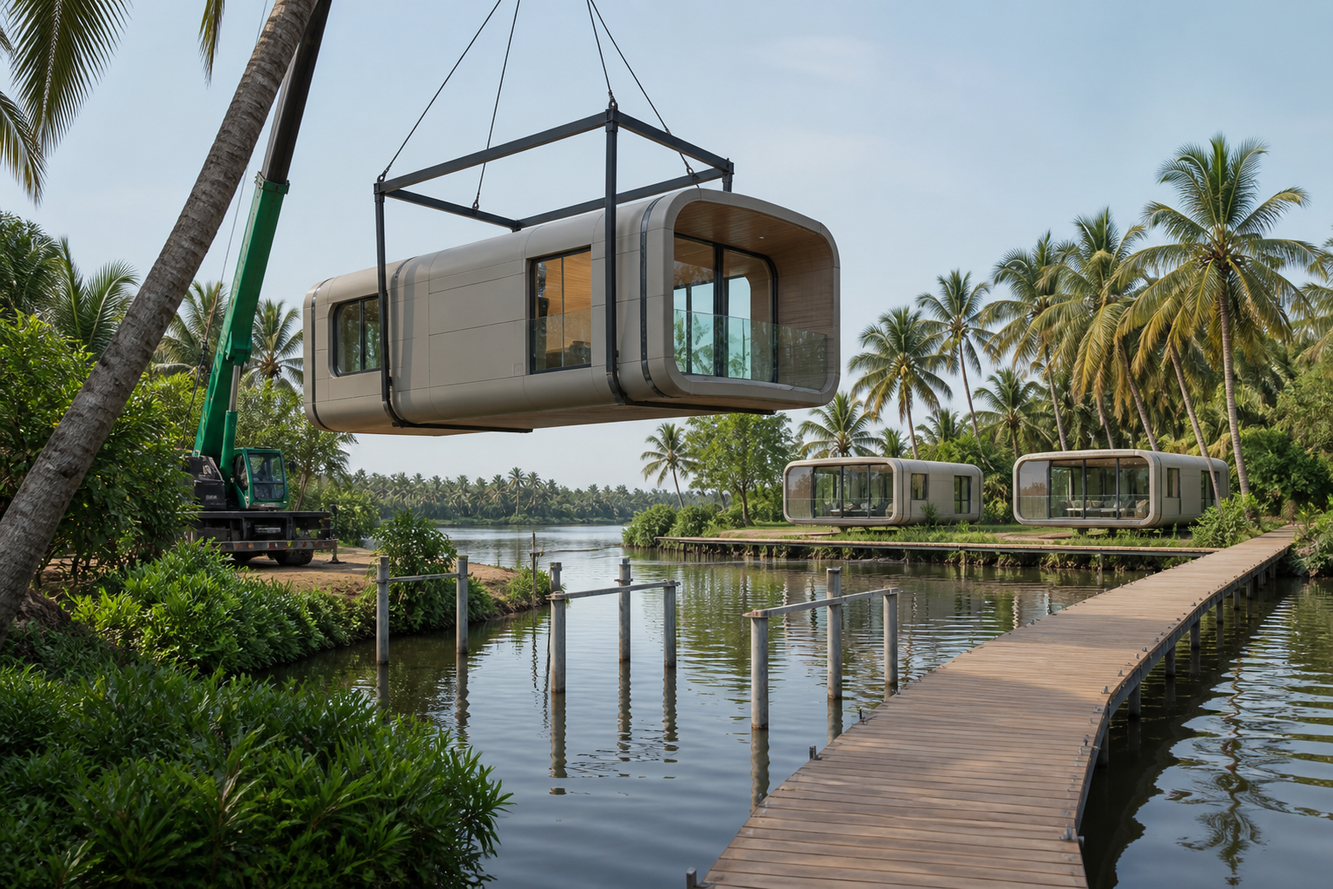
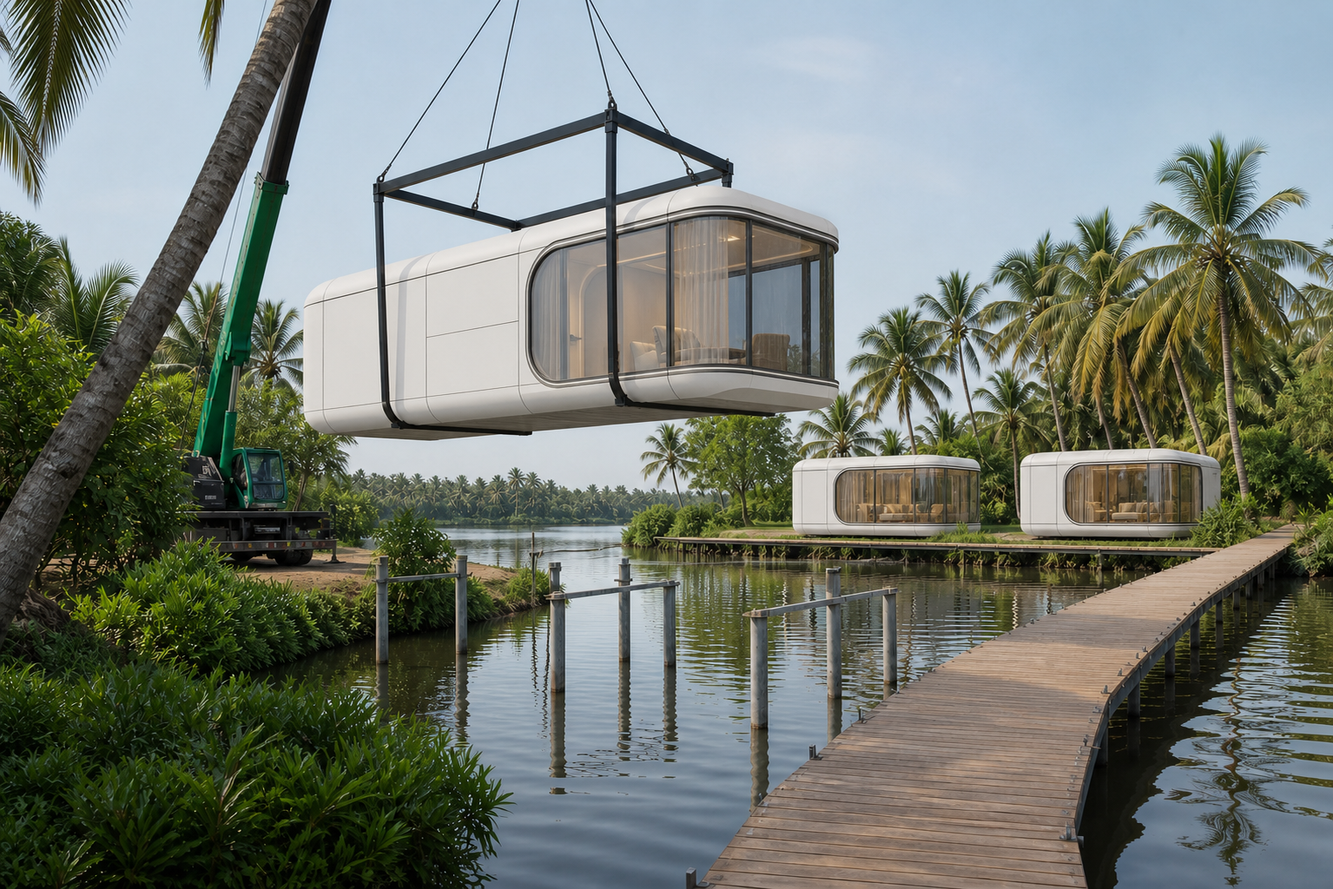
added some work with more chinese capsules

diff --git a/src/constants.ts b/src/constants.ts
@@ -120,11 +120,11 @@ export const PROJECTS: Project[] = [
   },
   {
     id: 'modular-capsule-backwater-retreat', title: 'Modular Capsule Backwater Retreat', category: 'Hospitality', location: 'Kerala Backwaters, India', year: '2026', image: '/images/modular-capsule-backwater-retreat-hero.png',
-    description: 'A water-facing hospitality retreat composed of refined capsule suites, pairing panoramic guest rooms with low-impact foundations and a phased modular delivery strategy.',
+    description: 'A water-facing hospitality retreat composed of compact Volferda E3 suites, pairing panoramic guest rooms with low-impact foundations and a phased modular delivery strategy.',
     challenge: 'Create a memorable backwater stay that feels close to the landscape while avoiding heavy, disruptive construction at the water’s edge.',
-    solution: 'Factory-finished volumetric capsules arrive with interiors, services, and glazing complete, then are positioned on slender piers and linked by a raised timber boardwalk. The system can grow suite by suite as demand increases.',
-    materiality: 'Warm-grey insulated capsule shells, rounded low-iron glazing, teak-lined reveals, and quiet dark-metal details create a durable, contemporary response to the tropical setting.',
-    technicalSpecs: [{ label: 'System', value: 'Volumetric Capsule Modules' }, { label: 'Foundation', value: 'Low-impact Pier Supports' }, { label: 'Delivery', value: 'Factory-finished + Phased' }],
+    solution: 'Factory-finished E3 capsules arrive with interiors, services, and panoramic glazing complete, then are positioned on slender piers and linked by a raised timber boardwalk. The system can grow suite by suite as demand increases.',
+    materiality: 'Smooth white E3 shells, dark rounded panoramic glazing, pale-wood interiors, teak-lined reveals, and quiet dark-metal details create a durable response to the tropical setting.',
+    technicalSpecs: [{ label: 'Capsule Reference', value: 'Volferda E3' }, { label: 'Foundation', value: 'Low-impact Pier Supports' }, { label: 'Delivery', value: 'Factory-finished + Phased' }],
     details: [{ label: 'Type', value: 'Capsule Hospitality' }, { label: 'Region', value: 'Kerala Backwaters, India' }, { label: 'Status', value: 'Concept Study' }],
     gallery: ['/images/modular-capsule-backwater-retreat-hero.png', '/images/modular-capsule-backwater-retreat-interior.png', '/images/modular-capsule-backwater-retreat-installation.png']
   },
@@ -140,21 +140,21 @@ export const PROJECTS: Project[] = [
   },
   {
     id: 'modular-capsule-desert-retreat', title: 'Modular Capsule Desert Retreat', category: 'Hospitality', location: 'Jaisalmer, Rajasthan, India', year: '2026', image: '/images/modular-capsule-desert-retreat-hero.png',
-    description: 'A compact capsule retreat that brings shaded, panoramic guest suites to the Thar landscape through a transportable and phased modular system.',
+    description: 'A compact Volferda E3 retreat that brings panoramic guest suites to the Thar landscape through a transportable and phased modular system.',
     challenge: 'Create a premium desert experience that can withstand heat, sand, and open exposure while keeping permanent ground works to a minimum.',
-    solution: 'Pre-finished capsule modules are aligned on raised pier pads and connected by a low-impact boardwalk, with shaded porches and service zones integrated before delivery.',
-    materiality: 'Sand-toned insulated shells, bronzed frames, timber privacy screens, and durable raised decks echo the desert palette while protecting guests from the elements.',
-    technicalSpecs: [{ label: 'System', value: 'Transportable Capsule Modules' }, { label: 'Foundation', value: 'Raised Pier Pads' }, { label: 'Climate', value: 'Heat + Sand-ready Envelope' }],
+    solution: 'Pre-finished E3 capsule modules are aligned on raised pier pads and connected by a low-impact boardwalk, with service zones integrated before delivery.',
+    materiality: 'Smooth white E3 shells, dark rounded panoramic glazing, timber privacy screens, and durable raised decks bring a crisp counterpoint to the desert palette.',
+    technicalSpecs: [{ label: 'Capsule Reference', value: 'Volferda E3' }, { label: 'Foundation', value: 'Raised Pier Pads' }, { label: 'Climate', value: 'Heat + Sand-ready Envelope' }],
     details: [{ label: 'Type', value: 'Desert Capsule Hospitality' }, { label: 'Region', value: 'Jaisalmer, Rajasthan, India' }, { label: 'Status', value: 'Concept Study' }],
     gallery: ['/images/modular-capsule-desert-retreat-hero.png', '/images/modular-capsule-desert-retreat-interior.png', '/images/modular-capsule-desert-retreat-installation.png']
   },
   {
     id: 'modular-capsule-alpine-retreat', title: 'Modular Capsule Alpine Retreat', category: 'Hospitality', location: 'Manali, Himachal Pradesh, India', year: '2026', image: '/images/modular-capsule-alpine-retreat-hero.png',
-    description: 'An insulated capsule retreat that places panoramic guest rooms across a Himalayan slope with minimal permanent construction.',
+    description: 'A Luban A50 Ultra capsule retreat that places panoramic guest rooms across a Himalayan slope with minimal permanent construction.',
     challenge: 'Deliver warm, comfortable accommodation on steep mountain terrain while limiting road work, earth movement, and impact on the forested site.',
-    solution: 'Transport-ready capsules arrive complete with interior finishes and high-performance glazing, then are set onto stepped pier foundations and connected by a lightweight cedar boardwalk.',
-    materiality: 'Charcoal insulated shells, cedar-lined reveals, dark aluminium glazing, wool-rich interiors, and weathered timber paths bring warmth to a high-altitude setting.',
-    technicalSpecs: [{ label: 'System', value: 'Insulated Capsule Modules' }, { label: 'Foundation', value: 'Stepped Pier Supports' }, { label: 'Delivery', value: 'Transport-ready Volumes' }],
+    solution: 'Transport-ready A50 Ultra modules arrive complete with interior finishes and high-performance glazing, then are set onto stepped pier foundations and connected by a lightweight cedar boardwalk.',
+    materiality: 'Pale grey and white A50 Ultra shells, dark rounded glazing, cedar-lined reveals, wool-rich interiors, and weathered timber paths bring warmth to a high-altitude setting.',
+    technicalSpecs: [{ label: 'Capsule Reference', value: 'Luban A50 Ultra' }, { label: 'Foundation', value: 'Stepped Pier Supports' }, { label: 'Delivery', value: 'Transport-ready Volumes' }],
     details: [{ label: 'Type', value: 'Alpine Capsule Hospitality' }, { label: 'Region', value: 'Manali, Himachal Pradesh, India' }, { label: 'Status', value: 'Concept Study' }],
     gallery: ['/images/modular-capsule-alpine-retreat-hero.png', '/images/modular-capsule-alpine-retreat-interior.png', '/images/modular-capsule-alpine-retreat-installation.png']
   },
@@ -180,11 +180,11 @@ export const PROJECTS: Project[] = [
   },
   {
     id: 'modular-capsule-lake-retreat', title: 'Modular Capsule Lake Retreat', category: 'Hospitality', location: 'Nainital, Uttarakhand, India', year: '2026', image: '/images/modular-capsule-lake-retreat-hero.png',
-    description: 'A lake-facing capsule retreat that steps through a wooded Nainital slope, combining panoramic rooms with minimal permanent construction.',
+    description: 'A lake-facing Volferda E3 retreat that steps through a wooded Nainital slope, combining panoramic rooms with minimal permanent construction.',
     challenge: 'Create comfortable, view-led accommodation on steep lakeside terrain while avoiding extensive earthworks and keeping access routes light.',
-    solution: 'Transport-ready capsule suites are carefully lifted to stepped pier supports and linked by a lightweight boardwalk, allowing a phased build that protects the slope and frames the lake.',
-    materiality: 'Warm-grey weatherproof shells, rounded panoramic glazing, oak interiors, charcoal metal frames, and timber decks keep the capsule collection cohesive in a mountain-lake setting.',
-    technicalSpecs: [{ label: 'System', value: 'Transport-ready Capsule Modules' }, { label: 'Foundation', value: 'Stepped Pier Supports' }, { label: 'Delivery', value: 'Phased Hillside Installation' }],
+    solution: 'Transport-ready E3 suites are carefully lifted to stepped pier supports and linked by a lightweight boardwalk, allowing a phased build that protects the slope and frames the lake.',
+    materiality: 'Smooth white E3 shells, dark rounded panoramic glazing, oak interiors, charcoal metal frames, and timber decks keep the collection cohesive in a mountain-lake setting.',
+    technicalSpecs: [{ label: 'Capsule Reference', value: 'Volferda E3' }, { label: 'Foundation', value: 'Stepped Pier Supports' }, { label: 'Delivery', value: 'Phased Hillside Installation' }],
     details: [{ label: 'Type', value: 'Lake Capsule Hospitality' }, { label: 'Region', value: 'Nainital, Uttarakhand, India' }, { label: 'Status', value: 'Concept Study' }],
     gallery: ['/images/modular-capsule-lake-retreat-hero.png', '/images/modular-capsule-lake-retreat-interior.png', '/images/modular-capsule-lake-retreat-installation.png']
   },
@@ -240,11 +240,11 @@ export const PROJECTS: Project[] = [
   },
   {
     id: 'modular-capsule-visitor-gateway', title: 'Modular Capsule Visitor Gateway', category: 'Community', location: 'India', year: '2026', image: '/images/modular-capsule-visitor-gateway-hero.png',
-    description: 'A low-impact arrival hub for natural destinations, bringing orientation, public amenities, and sheltered gathering space together in a repeatable capsule system.',
+    description: 'A low-impact arrival hub for natural destinations, bringing orientation, public amenities, and sheltered gathering space together in a repeatable Luban A50 Ultra system.',
     challenge: 'Create an inviting visitor facility in a sensitive landscape while reducing permanent construction, protecting trees, and allowing the destination to grow in phases.',
-    solution: 'Three factory-built capsules link by a raised timber boardwalk, separating the orientation lounge, accessible amenity, and gathering room while keeping the landscape continuous below.',
-    materiality: 'Warm-grey weatherproof shells, wide rounded glazing, oak display finishes, dark aluminium frames, timber walkways, and stone-edged planting sit quietly within the setting.',
-    technicalSpecs: [{ label: 'Configuration', value: '3 Capsule Visitor Modules' }, { label: 'Programme', value: 'Orientation + Public Amenity' }, { label: 'Foundation', value: 'Raised Adjustable Supports' }],
+    solution: 'Three factory-built A50 Ultra modules link by a raised timber boardwalk, separating the orientation lounge, accessible amenity, and gathering room while keeping the landscape continuous below.',
+    materiality: 'Pale grey and white A50 Ultra shells, wide dark rounded glazing, oak display finishes, timber walkways, and stone-edged planting sit quietly within the setting.',
+    technicalSpecs: [{ label: 'Capsule Reference', value: 'Luban A50 Ultra' }, { label: 'Programme', value: 'Orientation + Public Amenity' }, { label: 'Foundation', value: 'Raised Adjustable Supports' }],
     details: [{ label: 'Type', value: 'Visitor Information Gateway' }, { label: 'Region', value: 'India' }, { label: 'Status', value: 'Concept Study' }],
     gallery: ['/images/modular-capsule-visitor-gateway-hero.png', '/images/modular-capsule-visitor-gateway-interior.png', '/images/modular-capsule-visitor-gateway-installation.png']
   },
@@ -280,11 +280,11 @@ export const PROJECTS: Project[] = [
   },
   {
     id: 'modular-capsule-desert-adventure-lodge', title: 'Modular Capsule Desert Adventure Lodge', category: 'Hospitality', location: 'Rajasthan, India', year: '2026', image: '/images/modular-capsule-desert-adventure-lodge-hero.png',
-    description: 'A climate-ready adventure lodge that uses insulated capsule guest suites and a shared shaded courtyard to create a durable, low-impact desert stay.',
+    description: 'A climate-ready adventure lodge that uses Volferda E3 guest suites and a shared shaded courtyard to create a durable, low-impact desert stay.',
     challenge: 'Give guests a comfortable, memorable base in a hot and fragile landscape without relying on heavy construction, standard tents, or a fixed resort footprint.',
-    solution: 'Four factory-built capsules establish private suites around a protected communal court, with deep shade, light-touch supports, and timber walkways that make phased installation and relocation practical.',
-    materiality: 'Sand-grey mineral-coated shells, thermally efficient glazing, oak interiors, woven shade layers, dark aluminium frames, local stone, and native desert planting create a grounded hospitality palette.',
-    technicalSpecs: [{ label: 'Configuration', value: '4 Capsule Lodge Modules' }, { label: 'Climate', value: 'Desert-ready Envelope' }, { label: 'Site Strategy', value: 'Light-touch Foundations' }],
+    solution: 'Four factory-built E3 capsules establish private suites around a protected communal court, with deep shade, light-touch supports, and timber walkways that make phased installation and relocation practical.',
+    materiality: 'Smooth white E3 shells, dark rounded panoramic glazing, oak interiors, woven shade layers, local stone, and native desert planting create a grounded hospitality palette.',
+    technicalSpecs: [{ label: 'Capsule Reference', value: 'Volferda E3' }, { label: 'Climate', value: 'Desert-ready Envelope' }, { label: 'Site Strategy', value: 'Light-touch Foundations' }],
     details: [{ label: 'Type', value: 'Capsule Desert Adventure Lodge' }, { label: 'Region', value: 'Rajasthan, India' }, { label: 'Status', value: 'Concept Study' }],
     gallery: ['/images/modular-capsule-desert-adventure-lodge-hero.png', '/images/modular-capsule-desert-adventure-lodge-interior.png', '/images/modular-capsule-desert-adventure-lodge-installation.png']
   },
@@ -317,11 +317,8 @@ export const PROJECTS: Project[] = [
     details: [{ label: 'Type', value: 'Modular Workplace' }, { label: 'Region', value: 'Bengaluru, India' }, { label: 'Status', value: 'Concept Study' }],
     gallery: ['/images/modular-office-india-exterior.jpg', '/images/modular-office-india-interior.jpg', '/images/modular-office-india-installation.jpg']
   },
-  { id: 'modular-farmhouse-retreat', title: 'Modular Farmhouse Retreat', category: 'Residential', location: 'India', year: '2026', image: '/images/modular-farmhouse-hero.png', description: 'A modern modular farmhouse that connects a warm, practical interior to broad views of the surrounding landscape.', details: [{ label: 'Type', value: 'Farmhouse Residence' }, { label: 'Status', value: 'Concept Study' }], gallery: ['/images/modular-farmhouse-hero.png', '/images/modular-farmhouse-interior.png', '/images/modular-farmhouse-veranda.png'] },
   { id: 'modular-office-campus', title: 'Modular Office Campus', category: 'Workplace', location: 'India', year: '2026', image: '/images/modular-office-campus-hero.png', description: 'An expandable modular office campus with connected workspaces, meeting rooms, and shaded arrival courts.', details: [{ label: 'Type', value: 'Office Campus' }, { label: 'Status', value: 'Concept Study' }], gallery: ['/images/modular-office-campus-hero.png', '/images/modular-office-campus-workspace.png', '/images/modular-office-campus-entry.png'] },
-  { id: 'modular-care-clinic', title: 'Modular Care Clinic', category: 'Community', location: 'India', year: '2026', image: '/images/modular-care-clinic-hero.png', description: 'A calm, rapidly deployable primary-care clinic with reception, treatment rooms, and a welcoming landscaped entry.', details: [{ label: 'Type', value: 'Healthcare Module' }, { label: 'Status', value: 'Concept Study' }], gallery: ['/images/modular-care-clinic-hero.png', '/images/modular-care-clinic-reception.png', '/images/modular-care-clinic-treatment.png'] },
   { id: 'modular-coworking-hub', title: 'Modular Co-working Hub', category: 'Workplace', location: 'India', year: '2026', image: '/images/modular-coworking-hub-hero.png', description: 'A flexible workplace hub with open desks, focused meeting rooms, and shaded breakout space.', details: [{ label: 'Type', value: 'Co-working Workplace' }, { label: 'Status', value: 'Concept Study' }], gallery: ['/images/modular-coworking-hub-hero.png', '/images/modular-coworking-hub-workspace.png', '/images/modular-coworking-hub-meeting.png'] },
-  { id: 'compact-roadside-cafe', title: 'Compact Roadside Café', category: 'Commercial', location: 'India', year: '2026', image: '/images/compact-roadside-cafe-hero.png', description: 'A single-module café with fast service, a shaded terrace, and a crisp modern identity.', details: [{ label: 'Type', value: 'Compact Café Module' }, { label: 'Status', value: 'Concept Study' }], gallery: ['/images/compact-roadside-cafe-hero.png', '/images/compact-roadside-cafe-interior.png', '/images/compact-roadside-cafe-terrace.png'] },
   { id: 'modular-rooftop-restaurant', title: 'Modular Rooftop Restaurant', category: 'Commercial', location: 'India', year: '2026', image: '/images/modular-rooftop-restaurant-hero.png', description: 'A glass-and-steel modular restaurant designed for compact urban rooftops.', details: [{ label: 'Type', value: 'Rooftop Restaurant' }, { label: 'Status', value: 'Concept Study' }], gallery: ['/images/modular-rooftop-restaurant-hero.png', '/images/modular-rooftop-restaurant-interior.png', '/images/modular-rooftop-restaurant-terrace.png'] },
   { id: 'modular-forest-cafe', title: 'Modular Forest Café', category: 'Commercial', location: 'India', year: '2026', image: '/images/forest-cafe-hero.png', description: 'A low-impact modular café that connects warm interior service spaces with a forest deck.', details: [{ label: 'Type', value: 'Forest Café Module' }, { label: 'Status', value: 'Concept Study' }], gallery: ['/images/forest-cafe-hero.png', '/images/forest-cafe-interior.png', '/images/forest-cafe-deck.png'] },
   { id: 'darjeeling-tea-cafe', title: 'Darjeeling Tea Café', category: 'Commercial', location: 'Darjeeling, India', year: '2026', image: '/images/darjeeling-tea-cafe.png', description: 'A compact modular tea café with warm timber interiors and misty hillside views.', details: [{ label: 'Type', value: 'Café Module' }, { label: 'Status', value: 'Reference Proposal' }], gallery: ['/images/darjeeling-tea-cafe.png', '/images/darjeeling-tea-cafe-interior.png', '/images/darjeeling-tea-cafe-terrace.png'] },
@@ -329,7 +326,6 @@ export const PROJECTS: Project[] = [
   { id: 'manali-mountain-cafe', title: 'Manali Mountain Café', category: 'Commercial', location: 'Manali, Himachal Pradesh, India', year: '2026', image: '/images/manali-mountain-cafe.png', description: 'A compact modular café with warm interiors and panoramic mountain views.', details: [{ label: 'Type', value: 'Café Module' }, { label: 'Status', value: 'Reference Proposal' }], gallery: ['/images/manali-mountain-cafe.png', '/images/manali-mountain-cafe-gallery.png', '/images/manali-mountain-cafe-detail.png'] },
   { id: 'coorg-forest-retreat', title: 'Coorg Forest Retreat', category: 'Hospitality', location: 'Coorg, Karnataka, India', year: '2026', image: '/images/coorg-forest-retreat-hero.png', description: 'A low-impact modular retreat of timber-and-glass suites set among coffee estate planting and misty hills.', details: [{ label: 'Type', value: 'Forest Hospitality' }, { label: 'Status', value: 'Reference Proposal' }], gallery: ['/images/coorg-forest-retreat-hero.png', '/images/coorg-forest-retreat-terrace.png', '/images/coorg-forest-retreat-interior.png'] },
   { id: 'ladakh-highland-retreat', title: 'Ladakh Highland Retreat', category: 'Hospitality', location: 'Ladakh, India', year: '2026', image: '/images/ladakh-highland-retreat-hero.png', description: 'An insulated modular high-altitude retreat with warm guest suites and a sheltered shared lounge.', details: [{ label: 'Type', value: 'High-altitude Hospitality' }, { label: 'Status', value: 'Reference Proposal' }], gallery: ['/images/ladakh-highland-retreat-hero.png', '/images/ladakh-highland-retreat-evening.png', '/images/ladakh-highland-retreat-aerial.png'] },
-  { id: 'goa-coastal-retreat', title: 'Goa Coastal Retreat', category: 'Hospitality', location: 'Goa, India', year: '2026', image: '/images/goa-coastal-retreat-hero.png', description: 'A small modular coastal retreat of shaded guest suites, private decks, and landscaped water features designed for a tropical setting.', challenge: 'Deliver an elevated resort experience while managing strong sun, seasonal rain, and dense coastal planting.', solution: 'Independent factory-finished suites are connected by shaded paths and pool terraces, making phased construction possible with minimal site disruption.', materiality: 'White mineral walls, teak screens, dark aluminium, pale stone, and layered tropical planting keep the architecture cool and restrained.', technicalSpecs: [{ label: 'Format', value: 'Modular Resort Suites' }, { label: 'Climate', value: 'Tropical + Monsoon-ready' }, { label: 'Delivery', value: 'Phased Installation' }], details: [{ label: 'Type', value: 'Coastal Hospitality' }, { label: 'Region', value: 'Goa, India' }, { label: 'Status', value: 'Reference Proposal' }], gallery: ['/images/goa-coastal-retreat-hero.png', '/images/goa-coastal-retreat-evening.png', '/images/goa-coastal-retreat-suite.png'] },
   { id: 'modular-gym', title: 'Modular Gym', category: 'Amenities', location: 'Site-specific', year: '2026', image: '/images/modular-gym.jpg', description: 'A practical prefabricated fitness studio for communities, hotels, and workplaces.', details: [{ label: 'Type', value: 'Fitness' }, { label: 'Status', value: 'Concept Study' }], gallery: ['/images/modular-gym.jpg'] },
   {
     id: 'capsule-forest-spa-suite', title: 'Capsule Forest Spa Suite', category: 'Hospitality', location: 'Coorg, Karnataka, India', year: '2026', image: '/images/capsule-showcase/capsule-forest-spa-retreat.png',

diff --git a/src/components/home/FAQ.tsx b/src/components/home/FAQ.tsx
@@ -1,0 +1,133 @@
+import { AnimatePresence, motion } from 'motion/react';
+import { ChevronDown } from 'lucide-react';
+import { useState } from 'react';
+import Reveal from '../Reveal';
+import StaggerText from '../StaggerText';
+
+const faqs = [
+  {
+    question: 'What makes a capsule space different from a traditional building?',
+    answer: 'Capsule spaces combine a compact prefabricated structure with panoramic living and a fast, low-impact delivery approach. The result is a carefully detailed room that can be suited to hospitality, work, wellness, or residential use.',
+  },
+  {
+    question: 'Can I customise the layout and finishes?',
+    answer: 'Yes. We can tailor the layout, interior finishes, glazing, furniture, services, and exterior details to the site and programme, from a private retreat to a public-facing amenity.',
+  },
+  {
+    question: 'What technology is included in a capsule project?',
+    answer: 'Each project is developed as a prefabricated system with coordinated structure, enclosure, services, and interior elements. Smart controls and energy-conscious options can be defined around the brief and local conditions.',
+  },
+  {
+    question: 'Can I experience a capsule before committing?',
+    answer: 'We can share relevant project references, material samples, and visual walk-throughs during the early design stage. Where available, a visit to a completed project or demonstration unit can also be arranged.',
+  },
+  {
+    question: 'How long does delivery take?',
+    answer: 'The schedule depends on the selected module, the level of customisation, site access, and installation logistics. We establish a clear fabrication and delivery programme once the scope is confirmed.',
+  },
+  {
+    question: 'Is there a warranty?',
+    answer: 'Warranty coverage is set out for each project in the final specification and agreement. We make the scope, duration, and responsible parties clear before work begins.',
+  },
+  {
+    question: 'How do you maintain quality and safety?',
+    answer: 'Key components are coordinated and checked before dispatch, while foundations, access, and lifting are planned for the individual site. This keeps the finished installation aligned with the approved design and local requirements.',
+  },
+  {
+    question: 'What support is available after installation?',
+    answer: 'We remain available for maintenance guidance, performance reviews, and future upgrades as your needs evolve. Long-term support is considered from the first design conversation.',
+  },
+];
+
+export default function FAQ() {
+  const [openIndex, setOpenIndex] = useState<number | null>(0);
+
+  return (
+    <section id="faq" aria-labelledby="faq-heading" className="py-24 md:py-48 px-8 relative overflow-hidden border-t border-white/5">
+      <div className="absolute -right-[5vw] top-16 text-[22vw] font-display font-bold tracking-tighter leading-none text-ivory/[0.025] pointer-events-none select-none">
+        FAQ
+      </div>
+
+      <div className="max-w-7xl mx-auto relative z-10">
+        <h2 id="faq-heading" className="sr-only">Frequently asked questions</h2>
+        <div className="grid grid-cols-1 lg:grid-cols-12 gap-16 lg:gap-24">
+          <div className="lg:col-span-4">
+            <Reveal direction="right">
+              <div className="flex items-center gap-4 mb-10">
+                <span className="text-gold font-mono text-xs">04</span>
+                <div className="h-px w-12 bg-gold" />
+                <span className="text-xs uppercase tracking-[0.4em] text-ivory/60 font-bold">Knowledge</span>
+              </div>
+            </Reveal>
+
+            <StaggerText
+              el="h2"
+              text="QUESTIONS, ANSWERED."
+              className="text-5xl md:text-7xl font-display font-bold tracking-tighter leading-[0.88]"
+              delay={0.1}
+              stagger={0.05}
+            />
+
+            <Reveal direction="right" delay={0.3}>
+              <p className="mt-10 max-w-sm text-base md:text-lg leading-relaxed text-ivory/60 font-light">
+                A practical guide to starting a modular or capsule-space project.
+              </p>
+            </Reveal>
+          </div>
+
+          <div className="lg:col-span-8 lg:pt-2">
+            <div className="border-t border-white/15">
+              {faqs.map((faq, index) => {
+                const isOpen = openIndex === index;
+                const answerId = `faq-answer-${index}`;
+
+                return (
+                  <Reveal key={faq.question} direction="up" delay={Math.min(index * 0.04, 0.24)}>
+                    <div className="border-b border-white/15">
+                      <button
+                        type="button"
+                        className="w-full flex items-center gap-5 md:gap-8 py-6 md:py-8 text-left group"
+                        onClick={() => setOpenIndex(isOpen ? null : index)}
+                        aria-expanded={isOpen}
+                        aria-controls={answerId}
+                      >
+                        <span className="w-7 shrink-0 text-[10px] font-mono text-gold/80">{String(index + 1).padStart(2, '0')}</span>
+                        <span className="flex-1 text-lg md:text-2xl font-display font-medium tracking-tight text-ivory group-hover:text-gold transition-colors duration-300">
+                          {faq.question}
+                        </span>
+                        <motion.span
+                          animate={{ rotate: isOpen ? 180 : 0 }}
+                          transition={{ duration: 0.25 }}
+                          className="shrink-0 text-gold"
+                        >
+                          <ChevronDown size={20} strokeWidth={1.5} />
+                        </motion.span>
+                      </button>
+
+                      <AnimatePresence initial={false}>
+                        {isOpen && (
+                          <motion.div
+                            id={answerId}
+                            initial={{ height: 0, opacity: 0 }}
+                            animate={{ height: 'auto', opacity: 1 }}
+                            exit={{ height: 0, opacity: 0 }}
+                            transition={{ duration: 0.28, ease: [0.22, 1, 0.36, 1] }}
+                            className="overflow-hidden"
+                          >
+                            <p className="pb-7 md:pb-9 pl-12 md:pl-16 max-w-2xl text-base md:text-lg leading-relaxed text-ivory/65 font-light">
+                              {faq.answer}
+                            </p>
+                          </motion.div>
+                        )}
+                      </AnimatePresence>
+                    </div>
+                  </Reveal>
+                );
+              })}
+            </div>
+          </div>
+        </div>
+      </div>
+    </section>
+  );
+}

diff --git a/src/pages/Home.tsx b/src/pages/Home.tsx
@@ -3,6 +3,7 @@ import Philosophy from '../components/home/Philosophy';
 import FeaturedWork from '../components/home/FeaturedWork';
 import Services from '../components/home/Services';
 import Contact from '../components/home/Contact';
+import FAQ from '../components/home/FAQ';
 import CinematicSection from '../components/CinematicSection';
 import SEO from '../components/SEO';
 
@@ -22,6 +23,9 @@ export default function Home() {
       </CinematicSection>
       <CinematicSection>
         <Services />
+      </CinematicSection>
+      <CinematicSection>
+        <FAQ />
       </CinematicSection>
       <CinematicSection>
         <Contact />

diff --git a/src/App.tsx b/src/App.tsx
@@ -15,10 +15,17 @@ import SystemPage from './pages/SystemPage';
 import { useEffect } from 'react';
 
 function ScrollToTop() {
-  const { pathname } = useLocation();
+  const { pathname, hash } = useLocation();
   useEffect(() => {
-    window.scrollTo(0, 0);
-  }, [pathname]);
+    if (!hash) {
+      window.scrollTo(0, 0);
+      return;
+    }
+
+    window.requestAnimationFrame(() => {
+      document.getElementById(hash.slice(1))?.scrollIntoView({ behavior: 'smooth', block: 'start' });
+    });
+  }, [pathname, hash]);
   return null;
 }
 

diff --git a/src/components/home/Contact.tsx b/src/components/home/Contact.tsx
@@ -20,7 +20,7 @@ export default function Contact() {
             <ParallaxElement speed={0.02}>
               <Reveal direction="right">
                 <div className="flex items-center gap-4 mb-12">
-                  <span className="text-gold font-mono text-xs">04</span>
+                  <span className="text-gold font-mono text-xs">05</span>
                   <div className="h-[1px] w-12 bg-gold" />
                   <span className="text-xs uppercase tracking-[0.4em] text-ivory/60 font-bold">Inquiries</span>
                 </div>

diff --git a/src/components/Navbar.tsx b/src/components/Navbar.tsx
@@ -26,6 +26,7 @@ export default function Navbar() {
     { name: 'Work', href: '/work' },
     { name: 'System', href: '/system' },
     { name: 'Services', href: '/services' },
+    { name: 'FAQ', href: '/#faq' },
     { name: 'About', href: '/about' },
     { name: 'Contact', href: '/contact' },
   ];
